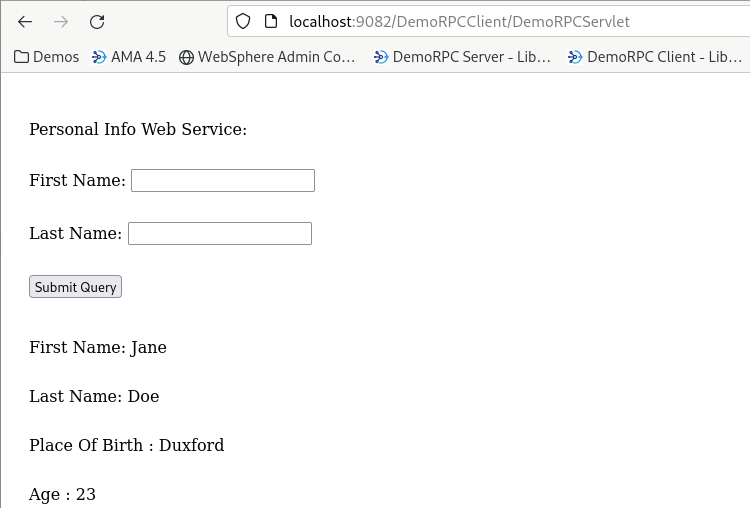
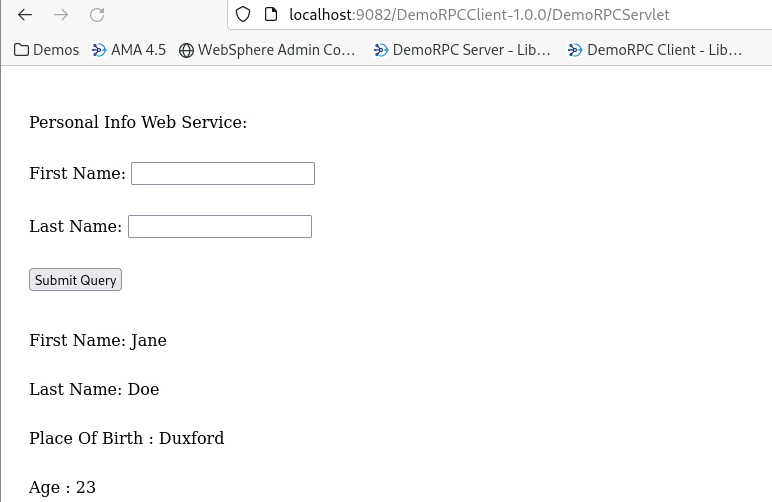
Update text

diff --git a/README.md b/README.md
@@ -556,6 +556,23 @@ Make sure that the environment is running:
 
 	2. Click on the link to access the servlet page **Personal Info Web Service**, enter the name and click on SubnitQuery.
 
-		<kbd>![](./images/media/AMADevTools_JAXRCP_service_ModernizeToLiberty_32.png)</kbd>
+		<kbd>![](./images/media/AMADevTools_JAXRCP_client_ModernizedToLiberty_04.png)</kbd>
 
-		Verify that the service works.
+	3. Review the logs of the Liberty server hosting the JAX-WS service 
+
+		tail -n 9 ~/Student/demo-rpc-ws-project/DemoRPC/target/liberty/wlp/usr/servers/defaultServer/logs/messages.log
+
+		You should find entries indicating that the service has been called by the client **DemoRPCClient-1.0.0** for the person **Jane Doe**
+
+		<kbd>![](./images/media/AMADevTools_JAXRCP_client_ModernizedToLiberty_05.png)</kbd>
+
+		End the command
+
+	4. Review the logs of the Liberty server hosting the JAX-WS client 
+
+		tail -n 6 ~/Student/demo-rpc-ws-project/DemoRPCClient/target/liberty/wlp/usr/servers/defaultServer/logs/messages.log 
+
+		You should find entries indicating that the client **DemoRPCClient-1.0.0** initialized the servlet **DemoRPCServlet**.
+
+		<kbd>![](./images/media/AMADevTools_JAXRCP_client_ModernizedToLiberty_06.png)</kbd>
+
